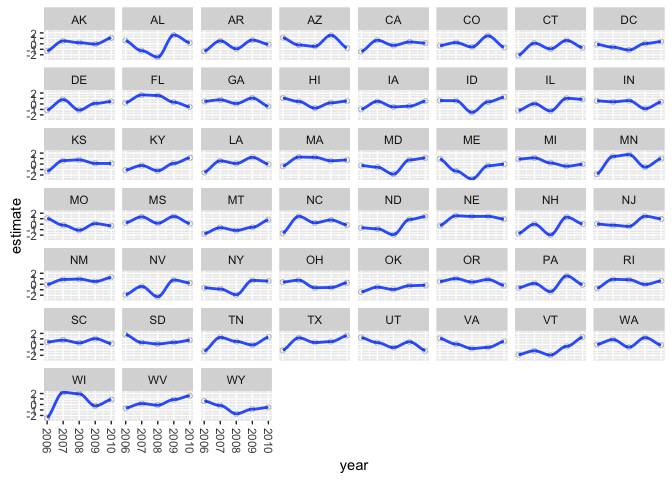
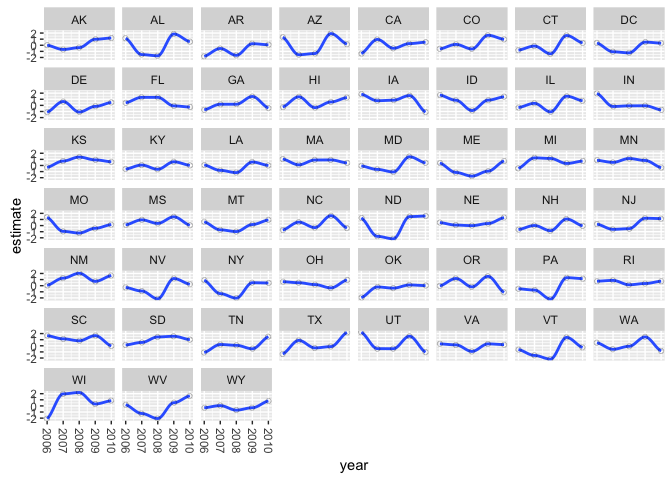
Cut obsolete readme text; add build badge

diff --git a/README.md b/README.md
@@ -2,6 +2,8 @@
 dgirt
 =====
 
+[![Build Status](https://travis-ci.org/jamesdunham/dgirt.svg?branch=master)](https://travis-ci.org/jamesdunham/dgirt)
+
 dgirt is an R package for dynamic group-level IRT models, as developed in [Caughey and Warshaw 2014](http://pan.oxfordjournals.org/content/early/2015/02/04/pan.mpu021.full.pdf+html):
 
 > Over the past eight decades, millions of people have been surveyed on their political opinions. Until recently, however, polls rarely included enough questions in a given domain to apply scaling techniques such as IRT models at the individual level, preventing scholars from taking full advantage of historical survey data. To address this problem, we develop a Bayesian group-level IRT approach that models latent traits at the level of demographic and/or geographic groups rather than individuals. We use a hierarchical model to borrow strength cross-sectionally and dynamic linear models to do so across time. The group-level estimates can be weighted to generate estimates for geographic units. This framework opens up vast new areas of research on historical public opinion, especially at the subnational level.
@@ -71,9 +73,9 @@ dgirt_estimates = dgirt(state_opinion_fmt, n_iter = 3, n_chain = 1)
 #> Chain 1, Iteration: 1 / 3 [ 33%]  (Warmup)
 #> Chain 1, Iteration: 2 / 3 [ 66%]  (Warmup)
 #> Chain 1, Iteration: 3 / 3 [100%]  (Sampling)# 
-#> #  Elapsed Time: 0.116442 seconds (Warm-up)
-#> #                0.013135 seconds (Sampling)
-#> #                0.129577 seconds (Total)
+#> #  Elapsed Time: 0.123141 seconds (Warm-up)
+#> #                0.013794 seconds (Sampling)
+#> #                0.136935 seconds (Total)
 #> #
 ```
 
@@ -113,20 +115,20 @@ First, a trial run.
 ``` r
 optimize_estimates = dgirt(state_opinion_fmt, n_iter = 20, method = "optimize",
   init_range = 0.5)
-#> Started: Thu Feb 11 17:55:07 2016
+#> Started: Fri Feb 12 09:51:42 2016
 #> Reading results from disk.
-#> Ended: Thu Feb 11 17:55:09 2016
+#> Ended: Fri Feb 12 09:51:44 2016
 head(optimize_estimates$theta_bar)
 #> Source: local data frame [6 x 5]
 #> 
-#>           param      value  year  state   race
-#>          (fctr)      (dbl) (dbl) (fctr) (fctr)
-#> 1 theta_bar.1.1  0.1403160  2006     AK  white
-#> 2 theta_bar.2.1  0.6005720  2007     AK  white
-#> 3 theta_bar.3.1  0.0361441  2008     AK  white
-#> 4 theta_bar.4.1  0.0527501  2009     AK  white
-#> 5 theta_bar.5.1  0.2141070  2010     AK  white
-#> 6 theta_bar.1.2 -0.4816380  2006     AL  white
+#>           param    value  year  state   race
+#>          (fctr)    (dbl) (dbl) (fctr) (fctr)
+#> 1 theta_bar.1.1 0.821362  2006     AK  white
+#> 2 theta_bar.2.1 1.200950  2007     AK  white
+#> 3 theta_bar.3.1 0.238978  2008     AK  white
+#> 4 theta_bar.4.1 0.225778  2009     AK  white
+#> 5 theta_bar.5.1 0.539578  2010     AK  white
+#> 6 theta_bar.1.2 0.649381  2006     AL  white
 ```
 
 And now a longer run.
@@ -140,7 +142,7 @@ And now a longer run.
 
 `poststratify()` can reweight estimates from `dgirt()` (if `method = "optimize"`) or `extract_dgirt()` (if `method = "rstan"`, the default). `postratify()` returns weighted means for groups or arbitrary aggregations of groups.
 
-The `state_demographics` dataset contains population proportions for demographic strata by year. At the moment, it's necessary to relabel the group factor levels in the `dgirt()` results to match those in the population proportion data. And the time variable in the `dgirt()` results needs to be recast as integer.
+The `state_demographics` dataset contains population proportions for demographic strata by year. At the moment, it's necessary to relabel the group factor levels in the `dgirt()` results to match those in the population proportion data.
 
 ``` r
 data(state_demographics)
@@ -149,12 +151,12 @@ head(state_demographics)
 #> 
 #>    state  year              race female education   age   proportion
 #>   (fctr) (int)            (fctr) (fctr)     (int) (int)        (dbl)
-#> 1     AK  1960 White or Hispanic   Male         1     1 8.857296e-05
-#> 2     AL  1960 White or Hispanic   Male         1     1 6.986948e-04
-#> 3     AR  1960 White or Hispanic   Male         1     1 3.831912e-04
-#> 4     AZ  1960 White or Hispanic   Male         1     1 3.518153e-04
-#> 5     CA  1960 White or Hispanic   Male         1     1 3.463380e-03
-#> 6     CO  1960 White or Hispanic   Male         1     1 3.543790e-04
+#> 1     AK  1960 white or hispanic   male         1     1 8.857296e-05
+#> 2     AL  1960 white or hispanic   male         1     1 6.986948e-04
+#> 3     AR  1960 white or hispanic   male         1     1 3.831912e-04
+#> 4     AZ  1960 white or hispanic   male         1     1 3.518153e-04
+#> 5     CA  1960 white or hispanic   male         1     1 3.463380e-03
+#> 6     CO  1960 white or hispanic   male         1     1 3.543790e-04
 state_demographics$race = factor(state_demographics$race, labels = c("white", "black", "other"))
 ```
 
@@ -177,15 +179,15 @@ head(group_means)
 #> 
 #>    state  year       value
 #>   (fctr) (int)       (dbl)
-#> 1     AK  2006 -1.30783959
-#> 2     AK  2007  0.53182331
-#> 3     AK  2008  0.21339533
-#> 4     AK  2009 -0.04634266
-#> 5     AK  2010  1.10630610
-#> 6     AL  2006  0.60320186
+#> 1     AK  2006  0.01213206
+#> 2     AK  2007 -0.68538500
+#> 3     AK  2008 -0.38938174
+#> 4     AK  2009  0.98444936
+#> 5     AK  2010  1.18867906
+#> 6     AL  2006  1.15451333
 ```
 
-The same approach works after `dgirt()` if `method = "optimize")`.
+The same approach works after `dgirt()` if `method = "optimize"`.
 
 ``` r
 optimize_estimates$theta_bar$year = as.integer(optimize_estimates$theta_bar$year)
@@ -202,14 +204,14 @@ optimize_group_means = poststratify(
 head(optimize_group_means)
 #> Source: local data frame [6 x 3]
 #> 
-#>    state  year       value
-#>   (fctr) (int)       (dbl)
-#> 1     AK  2006  0.16658420
-#> 2     AK  2007  0.51675482
-#> 3     AK  2008  0.06536689
-#> 4     AK  2009  0.04741589
-#> 5     AK  2010  0.17950634
-#> 6     AL  2006 -0.02765865
+#>    state  year     value
+#>   (fctr) (int)     (dbl)
+#> 1     AK  2006 1.3835744
+#> 2     AK  2007 0.5601803
+#> 3     AK  2008 0.7081640
+#> 4     AK  2009 0.2544385
+#> 5     AK  2010 1.1107925
+#> 6     AL  2006 0.9187339
 ```
 
 `plot_means`
